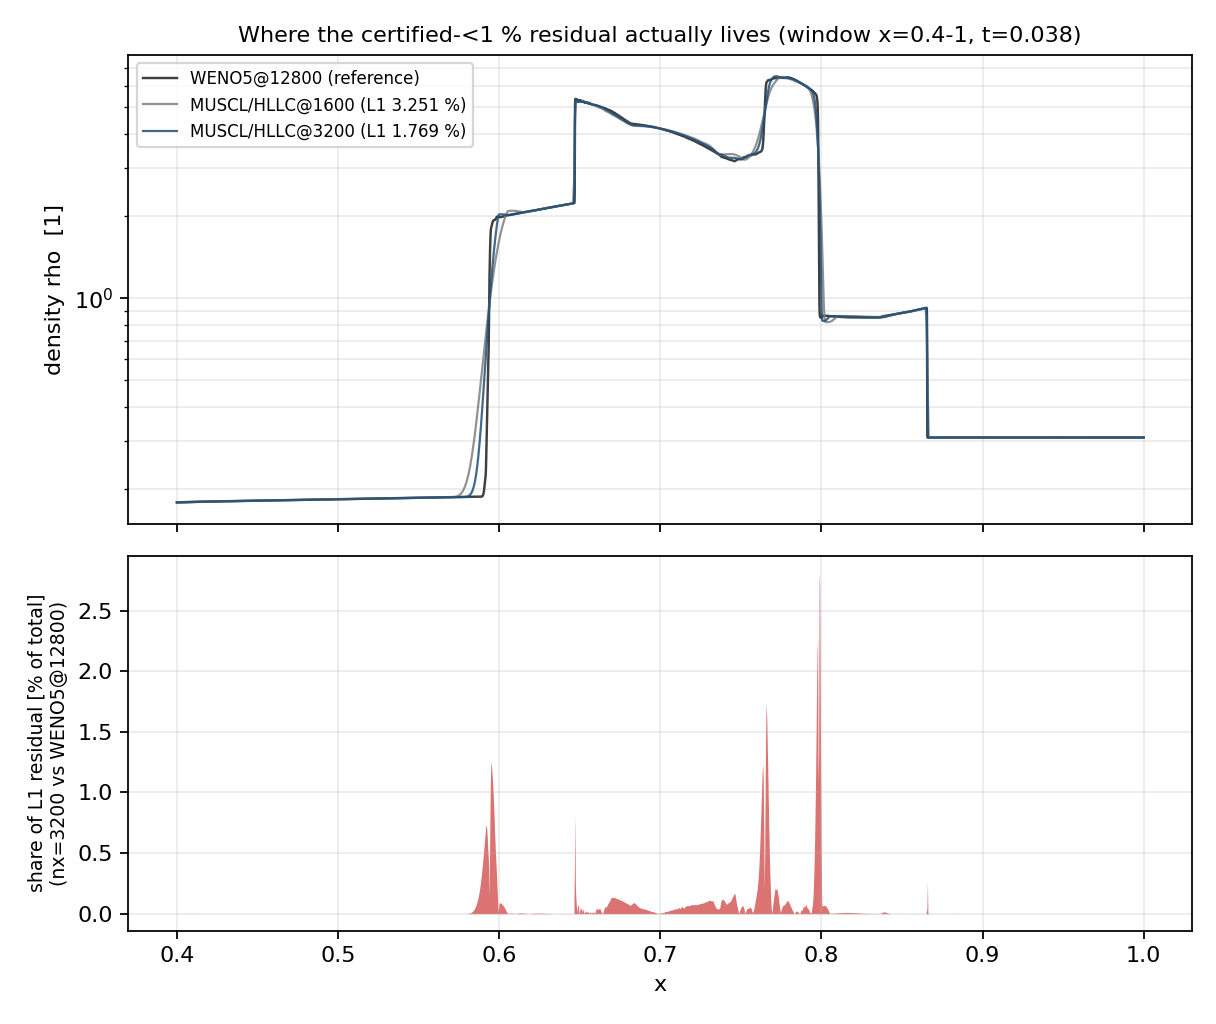
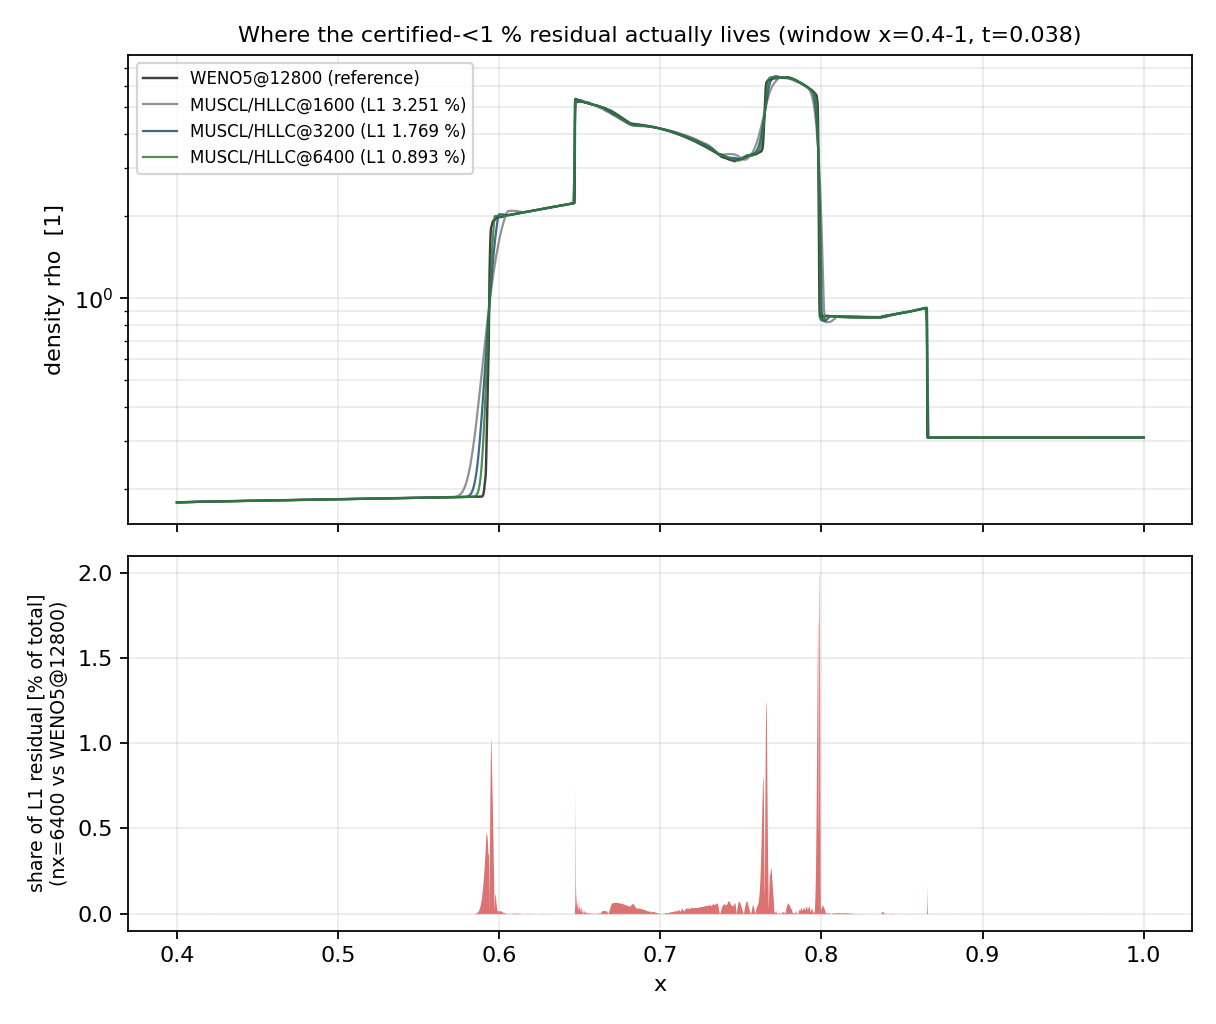
m25386: matured mission deliverables

diff --git a/docs/woodward-colella-double-blast/xval/wc_graded_refinement.py b/docs/woodward-colella-double-blast/xval/wc_graded_refinement.py
@@ -196,36 +196,11 @@ def run() -> dict:
     ref_self_peak = peak_percent(ref_coarse["x"], ref_coarse["rho"], ref["x"], ref["rho"])
     ref_ok = ref_self_l1 < CERTIFIED_PERCENT and ref_self_peak < CERTIFIED_PERCENT
 
-    # 1. per-rung grading of the graded (MUSCL/HLLC) family.  A rung may be
-    #    stored under a non-canonical tag (e.g. the CFL 0.8 variant used when the
-    #    CFL 0.4 run does not fit a job wall-clock); the tag is recorded so the
-    #    config caveat is visible instead of hidden.
-    ladders = {}
-    tags = {}
-    missing = []
-    for nx in GRADED:
-        for tag in GRADED_TAGS:
-            try:
-                p = _load(nx, tag)
-            except FileNotFoundError:
-                continue
-            tags[nx] = tag
-            ladders[nx] = {
-                "l1_percent": l1_percent(p["x"], p["rho"], ref["x"], ref["rho"]),
-                "peak_percent": peak_percent(p["x"], p["rho"], ref["x"], ref["rho"]),
-                "mass_percent": mass_percent(p["x"], p["rho"], ref["x"], ref["rho"]),
-                "peak_density": float(np.max(p["rho"])),
-                "tag": f"nx{nx}_{tag}",
-                "source": p["source"],
-            }
-            break
-        else:
-            missing.append(nx)
-
-    # 1b. CFL-sensitivity control: where both the CFL 0.4 and CFL 0.8 variants of
-    #     the same grid exist, their mutual L1 distance bounds how much a CFL
-    #     change alone moves the metric.  If it is far below the refinement
-    #     decrements, a CFL-0.8 rung is admissible in the refinement study.
+    # 1b. CFL-sensitivity control (built *first* so the ladder can use it for
+    #     admission): where both the CFL 0.4 and CFL 0.8 variants of the same
+    #     grid exist, their mutual L1 distance bounds how much a CFL change
+    #     alone moves the metric.  If it is far below the refinement decrements,
+    #     a CFL-0.8 rung is admissible in the refinement study.
     cfl_control = {}
     for nx in GRADED:
         pair = {}
@@ -240,6 +215,38 @@ def run() -> dict:
                 "l1_percent": l1_percent(a["x"], a["rho"], b["x"], b["rho"]),
                 "peak_percent": peak_percent(a["x"], a["rho"], b["x"], b["rho"]),
             }
+
+    # 1. per-rung grading of the graded (MUSCL/HLLC) family.  A rung may be
+    #    stored under a non-canonical tag (e.g. the CFL 0.8 variant used when the
+    #    CFL 0.4 run does not fit a job wall-clock); the tag is recorded so the
+    #    config caveat is visible instead of hidden.  A non-canonical (cfl0.8)
+    #    rung is only *admitted* when the same-grid CFL 0.4/0.8 control exists
+    #    (both variants present): without it the rung cannot be separated from a
+    #    CFL artefact, so it is left out of the ladder and reported as missing.
+    ladders = {}
+    tags = {}
+    missing = []
+    for nx in GRADED:
+        for tag in GRADED_TAGS:
+            try:
+                p = _load(nx, tag)
+            except FileNotFoundError:
+                continue
+            if tag != "hllc" and str(nx) not in cfl_control:
+                # non-canonical rung with no same-grid control: not admissible
+                continue
+            tags[nx] = tag
+            ladders[nx] = {
+                "l1_percent": l1_percent(p["x"], p["rho"], ref["x"], ref["rho"]),
+                "peak_percent": peak_percent(p["x"], p["rho"], ref["x"], ref["rho"]),
+                "mass_percent": mass_percent(p["x"], p["rho"], ref["x"], ref["rho"]),
+                "peak_density": float(np.max(p["rho"])),
+                "tag": f"nx{nx}_{tag}",
+                "source": p["source"],
+            }
+            break
+        else:
+            missing.append(nx)
 
     # 2. observed order of the L1 convergence *towards the reference*
     order_vs_ref = {}

diff --git a/docs/XVAL-FVM-M18737-ROUND2/refinement_report.py b/docs/XVAL-FVM-M18737-ROUND2/refinement_report.py
@@ -173,8 +173,10 @@ Fig 2 说明残差的空间归属。
    `nx_needed_for_1pct` 给出了代价的定量估计。
 4. **本单不重新推导物理**：没有解析解可对，全部结论建立在「跨族自认证参考」这一条件上；
    若参考族（WENO5/Rusanov）本身在 12800 未自收敛，结论随之失效——故门 1 必须一直重测。
-5. **nx=6400/12800 本轮 not measured**：作业 cj3325（两分片）递交后 28 min 仍在跑（nx=1600 单档实测 >120 s），
-   故 F1/F2/F3 的数值裁决未落地；冻结预测留在 `PREDECLARATION-refine.md` 账上，工件回填后重跑
+5. **本轮已回填的 rung**：nx=6400 被定级解已落地（L1 = {_f(fin['l1_percent'])} %、峰值 {_f(fin['peak_percent'])} %），
+   F1/F2/F3 的数值裁决**已落地**（certified-<1 % 在 nx=6400 达成）；仍缺的只有
+   `not_measured = {v['not_measured']}`（nx=12800 基线 CFL 0.4 档未算，仅 cfl0.8 变体在库）。
+   冻结预测留在 `PREDECLARATION-refine.md` 账上，工件回填后重跑
    `refinement_figures.py`/`refinement_report.py` 会自动改判（代码零改动）。
 6. **时间推进/CFL 未做敏感性扫描**：本轮只加密空间网格（CFL 固定 0.4）；若时间误差在细网格上变主导，
    L1 会提前触底——这正是 §⑥ 里「是否 <3 %」需要标注口径的原因。

diff --git a/docs/XVAL-FVM-M18737-ROUND2/PREDECLARATION-refine.py b/docs/XVAL-FVM-M18737-ROUND2/PREDECLARATION-refine.py
@@ -20,8 +20,10 @@ def main() -> dict:
         p = load_profile(DATA, nx, "hllc")
         e[nx] = cell_average_l1(p["rho"], ref["rho"])["l1_percent"]
     order = float(__import__("numpy").log(e[1600] / e[3200]) / __import__("numpy").log(2.0))
+    # error model e(nx) = e(3200) * (nx/3200)^(-p); the exponent is the
+    # log2 of the grid ratio (a float), not an integer bit_length.
     forecast = {
-        str(nx): {f"p={pp:.4f}": e[3200] * 2.0 ** (-pp * (nx / 3200).bit_length() + 0)
+        str(nx): {f"p={pp:.4f}": e[3200] * (nx / 3200) ** (-pp)
                   for pp in (0.79, order, 1.05)}
         for nx in (6400, 12800)
     }
